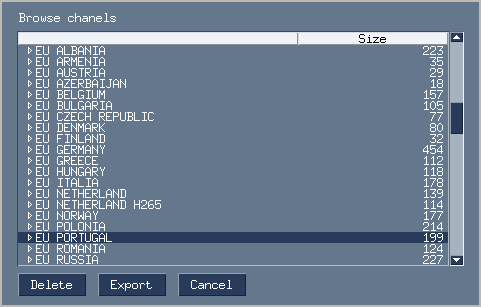
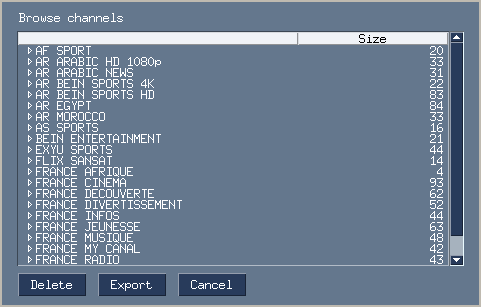
type 🖊

diff --git a/main.py b/main.py
@@ -71,7 +71,7 @@ if not starting_path:
 
 treedata.load(starting_path)
 
-layout = [[sg.Text('Browse chanels')],
+layout = [[sg.Text('Browse channels')],
           [sg.Tree(data=treedata,
                    headings=['Size', ],
                    auto_size_columns=True,
